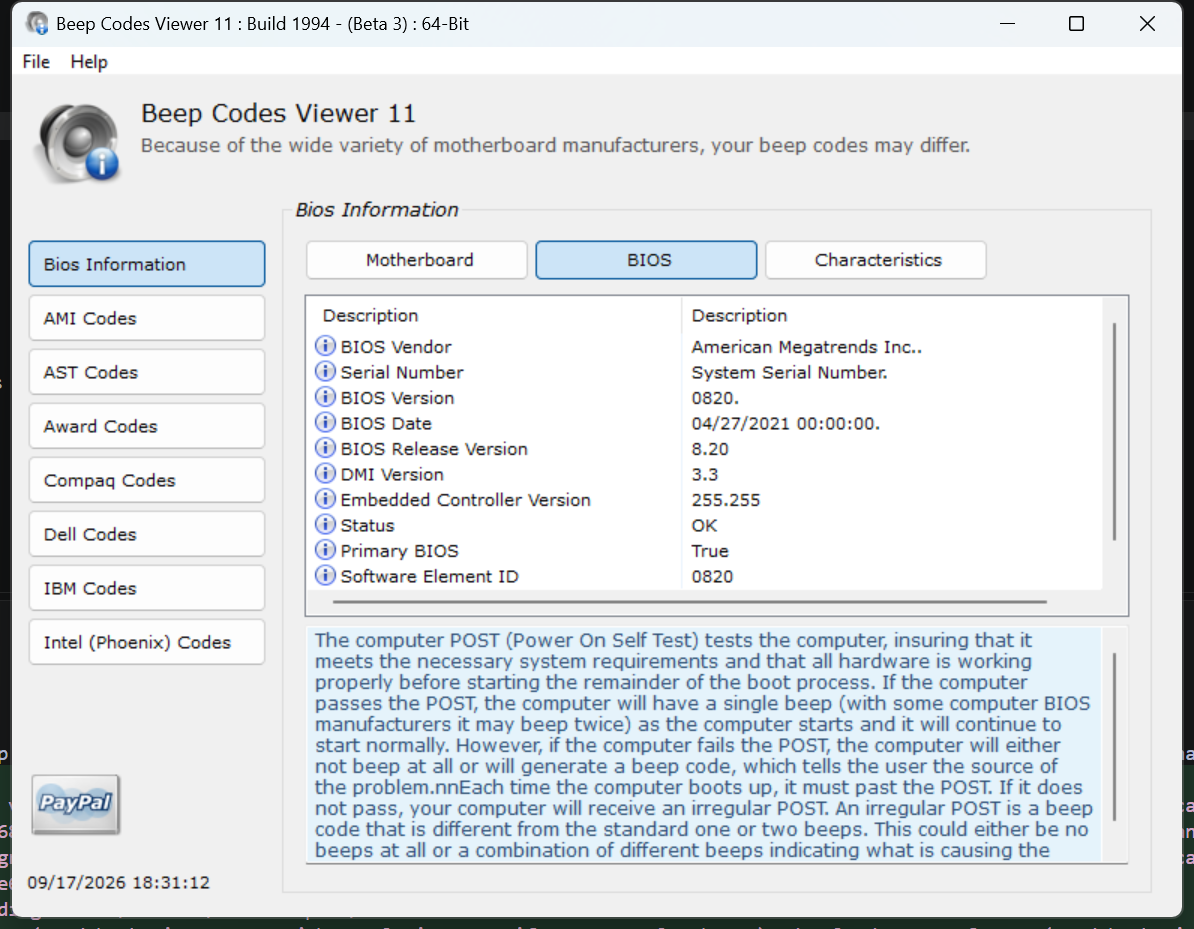
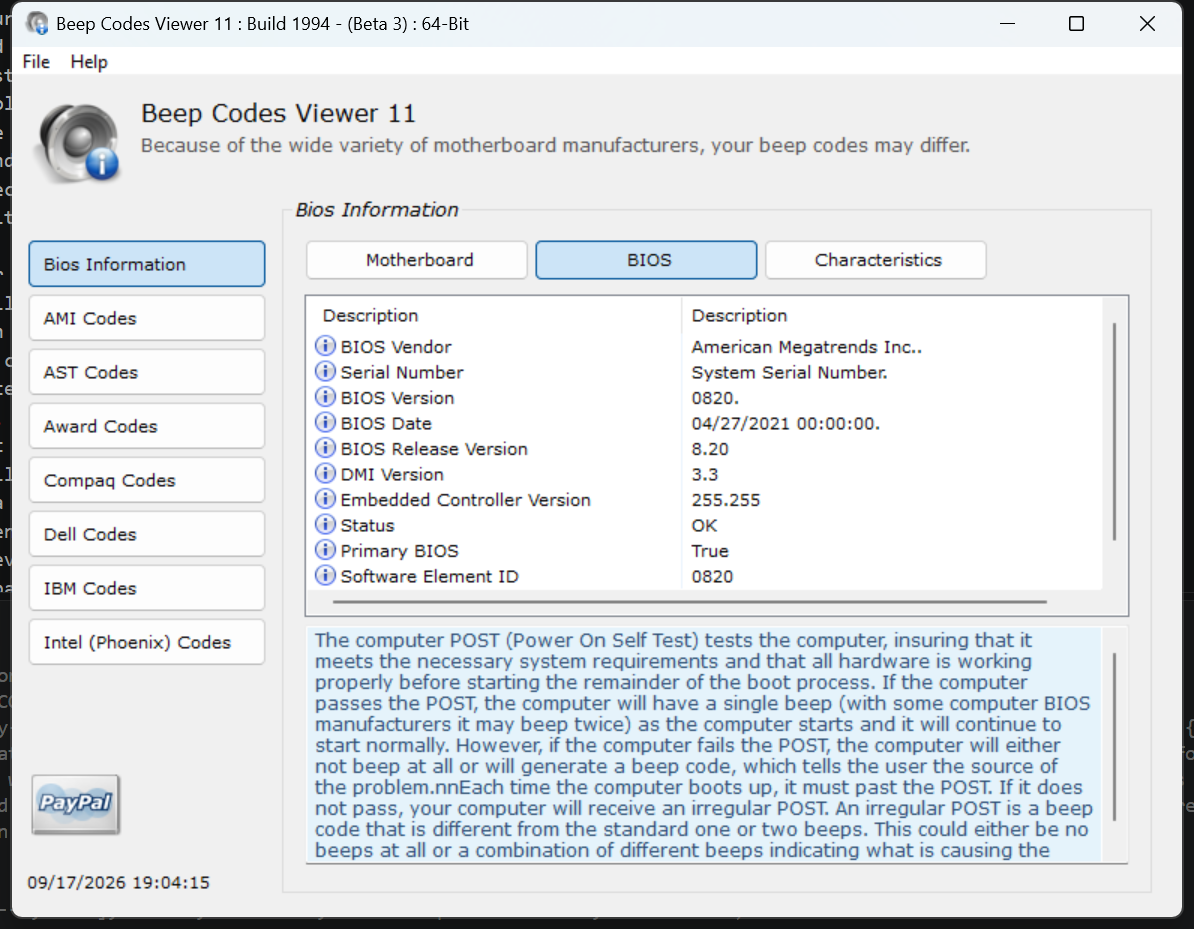
workspace: the four defects the independent review found (D00 T02 §3)
P1, and worse for being known. The helper still called SetForegroundWindow,
ignored the result, and then sent keystrokes. Windows refuses that call from a
background process, so input went wherever focus happened to be. I described
that exact failure in the previous commit message and left the code path
enabled. Documenting a hazard is not removing it.

Synthetic input is GONE from the script rather than gated. A surface behind a
menu is opened by the operator and this attaches to the result.

It also fails closed now. If the target does not own the foreground at the
moment of capture it refuses rather than copying whatever is on top of it,
because a capture of an overlapping window filed as the target's evidence is
worse than no capture. Driven with a window deliberately in front:

    capture-window: 'Resolute' does not own the foreground.
      Capturing now would save whatever is on top of it.
    exit 3, probe.png written? False

P1, second: when the launched stub exited, the fallback matched a process by
name and cleanup then force-killed it, so an instance THE OPERATOR ALREADY HAD
OPEN could be captured and terminated. Matching processes are now recorded
before launching and only one that appeared afterwards is eligible or stopped.
Driven with a pre-existing launcher running: pre-existing pid still alive? True

P2: called with neither -Path nor -WindowTitle it enumerated every window and
took the first, which could foreground and save an unrelated application.
[…]

diff --git a/todo/00-workspace/TODO-02-test-backbone.md b/todo/00-workspace/TODO-02-test-backbone.md
@@ -331,8 +331,28 @@ Every UI section in this plan carries a `Fidelity:` line naming an artifact it m
   **The example is the C++ launcher, not an AutoIt tool**, which is the point of the rewrite: it is the one real surface of the thing being built.
 
   ```
-  2026-09-17-D00-T02-s3-launcher-window.png   1100x720 @ 144 dpi
+  2026-09-17-D00-T02-s3-launcher-window.png   1100x720, monitor 144 dpi, aware=True
   ```
+
+  > [!WARNING]
+  > **The independent review found four defects in the capture helper, two of them P1, and the first is one I had already written about. Corrected 2026-09-17.**
+  >
+  > **P1, and it is the worse for being known.** The helper still called `SetForegroundWindow` and ignored the result, then sent keystrokes. Windows refuses that call from a background process, so the input went wherever focus happened to be. I described that exact failure in the commit message and left the code path enabled: documenting a hazard is not removing it. Synthetic input is now **gone from the script**, not gated. A surface behind a menu is opened by the operator and this attaches to the result.
+  >
+  > **And it now fails closed.** If the target does not own the foreground at the moment of capture it refuses rather than copying whatever is on top of it, because a capture of an overlapping window filed as the target's evidence is worse than no capture. Driven: with a window of mine deliberately in front, the run exits **3** and writes nothing.
+  >
+  > **P1, second.** When the launched stub exited, the fallback matched a process by name and the cleanup then force-killed it, so an instance **the operator already had open** could be captured and then terminated. Matching processes are now recorded **before** launching and only one that appeared afterwards is ever eligible or stopped. Driven with a pre-existing launcher running: it survives, `pid still alive? True`.
+  >
+  > **P2.** Called with neither `-Path` nor `-WindowTitle` it enumerated every window and took the first, which could foreground and save an unrelated application. Refused now, exit **2**, before anything is enumerated.
+  >
+  > **P2, and it made a committed sidecar untrue.** `GetDpiForWindow` returns a DPI-**unaware** window's *logical* dpi, which is 96 even on a 150 percent display, so the AutoIt capture's sidecar read `96 (100% scaling)` while the image was bitmap-stretched by Windows at 144. The sidecar now carries both figures, and the pair is better evidence than either alone:
+  >
+  > ```
+  > AutoIt tool     monitor 144 dpi   window  96 dpi   aware=False
+  > C++ launcher    monitor 144 dpi   window 144 dpi   aware=True
+  > ```
+  >
+  > That is the DPI deviation this section names, visible in the metadata rather than asserted in prose.
 - [x] Commit: `"workspace: house-style contract, checked against source"`
 
 <!-- claim: exists docs/captures/house-style/contract.md -->
